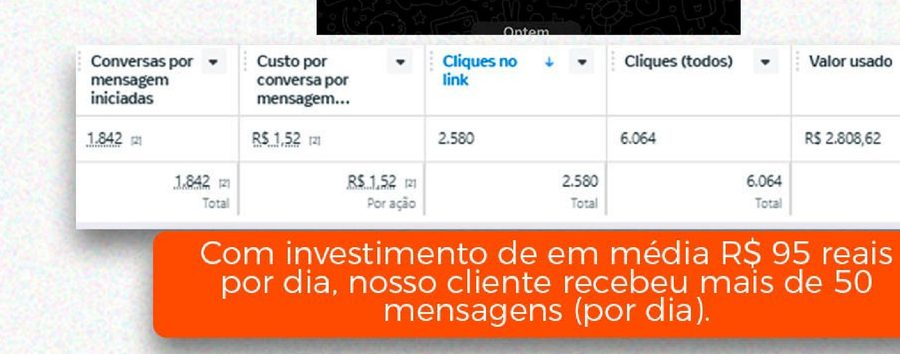
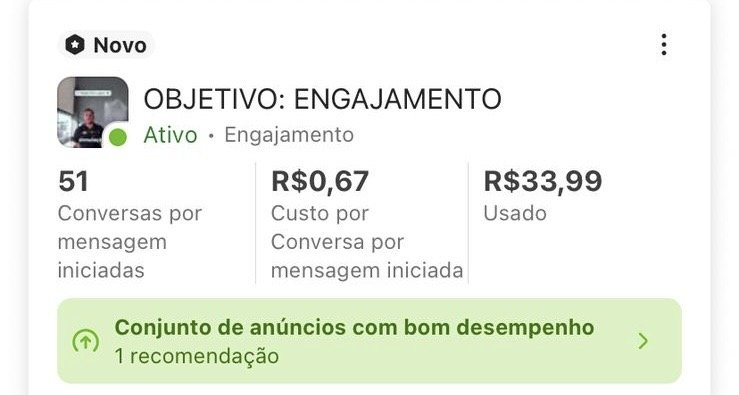
Atualiza provas visuais com os prints reais enviados pelo cliente
- SocialDOMination: troca o antes/depois da Thaís Dourado por um
  depoimento real dela nos comentários; substitui o print de insights
  do Reel por uma versão mais bem enquadrada (linha completa de métricas,
  sem cortar números); troca o print da Manu por uma versão sem
  sobreposição de fundo
- DOMTrafego: substitui o print de métricas pela captura real do
  Gerenciador de Anúncios (campanha de engajamento, 51 conversas a
  R$ 0,67 cada), mantendo o depoimento do WhatsApp
- Ajusta a colagem para o novo formato do print da Thaís (mais largo,
  exibido por completo via contain, sem cortar texto) e move o print
  do Reel para uma faixa larga própria, mostrando as 5 métricas inteiras

diff --git a/index.html b/index.html
@@ -587,7 +587,7 @@
           <div class="proof-collage">
             <img class="proof-collage__item proof-collage__item--1" src="assets/proof/social-sandes-before-after.jpg" alt="Perfil da Sandes Motos no Instagram: antes com 609 seguidores, depois com 16,6 mil seguidores">
             <img class="proof-collage__item proof-collage__item--2" src="assets/proof/social-cassulinha.jpg" alt="Perfil da Cassulinha Cabelos no Instagram, com 370 mil seguidores">
-            <img class="proof-collage__item proof-collage__item--3" src="assets/proof/social-thais-before-after.jpg" alt="Perfil de autora antes e depois do reposicionamento visual de feed">
+            <img class="proof-collage__item proof-collage__item--3" src="assets/proof/social-thais-before-after.jpg" alt="Comentário real de uma cliente elogiando o resultado do trabalho no perfil">
             <div class="proof-stat">
               <strong class="proof-counter" data-count-to="370" data-suffix=" mil">0</strong>
               <span>seguidores</span>
@@ -600,7 +600,7 @@
               <img src="assets/proof/social-manu-feed.jpg" alt="Perfil e grade de conteúdo organizados para uma nutricionista esportiva">
               <figcaption>Perfil e feed reorganizados → <strong>6 clientes novos</strong></figcaption>
             </figure>
-            <figure class="proof-mini">
+            <figure class="proof-mini proof-mini--wide">
               <img src="assets/proof/social-reel-stats.jpg" alt="Insights de um Reel com mais de 4,7 milhões de reproduções, sem tráfego pago">
               <figcaption><strong>4,7 mi</strong> de reproduções orgânicas, sem tráfego pago</figcaption>
             </figure>
@@ -671,7 +671,7 @@
             </div>
           </div>
 
-          <img class="proof-shot" src="assets/proof/trafego-sandes-metrics.jpg" alt="Métricas reais de uma campanha de tráfego pago gerenciada pela DOMT">
+          <img class="proof-shot" src="assets/proof/trafego-sandes-metrics.jpg" alt="Painel de anúncios do Meta: campanha de engajamento com bom desempenho, 51 conversas iniciadas a R$ 0,67 cada">
           <img class="proof-shot" src="assets/proof/trafego-sandes-whatsapp.jpg" alt="Cliente relatando o volume de mensagens recebidas durante a campanha">
           <p class="proof-caption">Com investimento médio de R$ 95 por dia, o cliente recebeu mais de 50 mensagens por dia.</p>
 

diff --git a/css/style.css b/css/style.css
@@ -1641,24 +1641,26 @@ h1, h2, h3, h4 {
 }
 .proof-collage__item--1 {
   left: 0; top: 0;
-  width: 56%; height: 80%;
+  width: 50%; height: 80%;
   z-index: 1;
   transform: rotate(-3deg);
   animation-duration: 8s;
 }
 .proof-collage__item--2 {
   right: 0; top: 0;
-  width: 48%; height: 40%;
+  width: 50%; height: 38%;
   z-index: 2;
   transform: rotate(3deg);
   animation-duration: 6.5s;
   animation-delay: 0.4s;
 }
 .proof-collage__item--3 {
-  right: 3%; bottom: 0;
-  width: 48%; height: 44%;
+  right: 0; bottom: 0;
+  width: 62%; height: 26%;
   z-index: 3;
-  transform: rotate(-4deg);
+  object-fit: contain;
+  background: var(--ink);
+  transform: rotate(-2deg);
   animation-duration: 7.5s;
   animation-delay: 0.8s;
 }
@@ -1712,6 +1714,13 @@ h1, h2, h3, h4 {
   object-fit: cover;
   border-radius: var(--radius-sm);
   border: 1px solid var(--line-on-ink);
+}
+.proof-mini--wide { grid-column: 1 / -1; }
+.proof-mini--wide img {
+  height: auto;
+  object-fit: contain;
+  background: var(--ink);
+  padding: 6px 0;
 }
 .proof-mini figcaption {
   margin-top: 8px;
